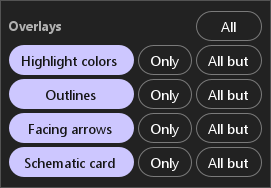
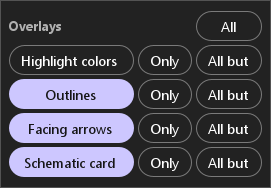
Website: City Tool screenshots with the tutorial layer and real house blocks

Changed region(s): [[0.0295, 0.2394, 0.5018, 0.3989]]

diff --git a/website/CONTENT-NOTES.md b/website/CONTENT-NOTES.md
@@ -13,7 +13,7 @@ The default macros may be outdated. Review every macro in `defaultActions/`, upd
 
 The CityLayer guide now describes the City Tool merged in PR #127: on-map Schematics / Layer / overlay / Add controls, the schematic card and picker, add mode, the shared transform box, the Randomize panels, the bundled tutorial layer, and undo / redo of building placements (with the warning and undo-history clear when schematics are removed). References were checked against the City Tool help catalog, the menu code, and the PR's commit notes.
 
-The `imgs/citytool/` screenshots come from the `CityToolScreenshot` development harness, which draws WorldPainter's own map view of a default (Perlin noise) world with the bundled test schematics, and from the removal warning dialog. Houses show in the layer's highlight color, the tool's default. The old `imgs/tutorial/CityLayer/` GIFs show the retired tool-settings panel; only the riverside showcase GIF (results) and the layer-creation GIF (layer editor) are still used. Still wanted: add mode with the next-house preview, Add random with ticked picker tiles, and new GIFs for selecting, transforming, copy / paste, and randomizing. Do not describe the walkthroughs as runtime-tested based on website tests alone.
+The `imgs/citytool/` screenshots come from the `CityToolScreenshot` development harness, which draws WorldPainter's own map view of a default (Perlin noise) world with the bundled tutorial layer (Highlight colors off, so houses show their own blocks), and from the removal warning dialog. The old `imgs/tutorial/CityLayer/` GIFs show the retired tool-settings panel; only the riverside showcase GIF (results) and the layer-creation GIF (layer editor) are still used. Still wanted: add mode with the next-house preview, Add random with ticked picker tiles, and new GIFs for selecting, transforming, copy / paste, and randomizing. Do not describe the walkthroughs as runtime-tested based on website tests alone.
 
 ## Path Tool documentation — PR #126
 
